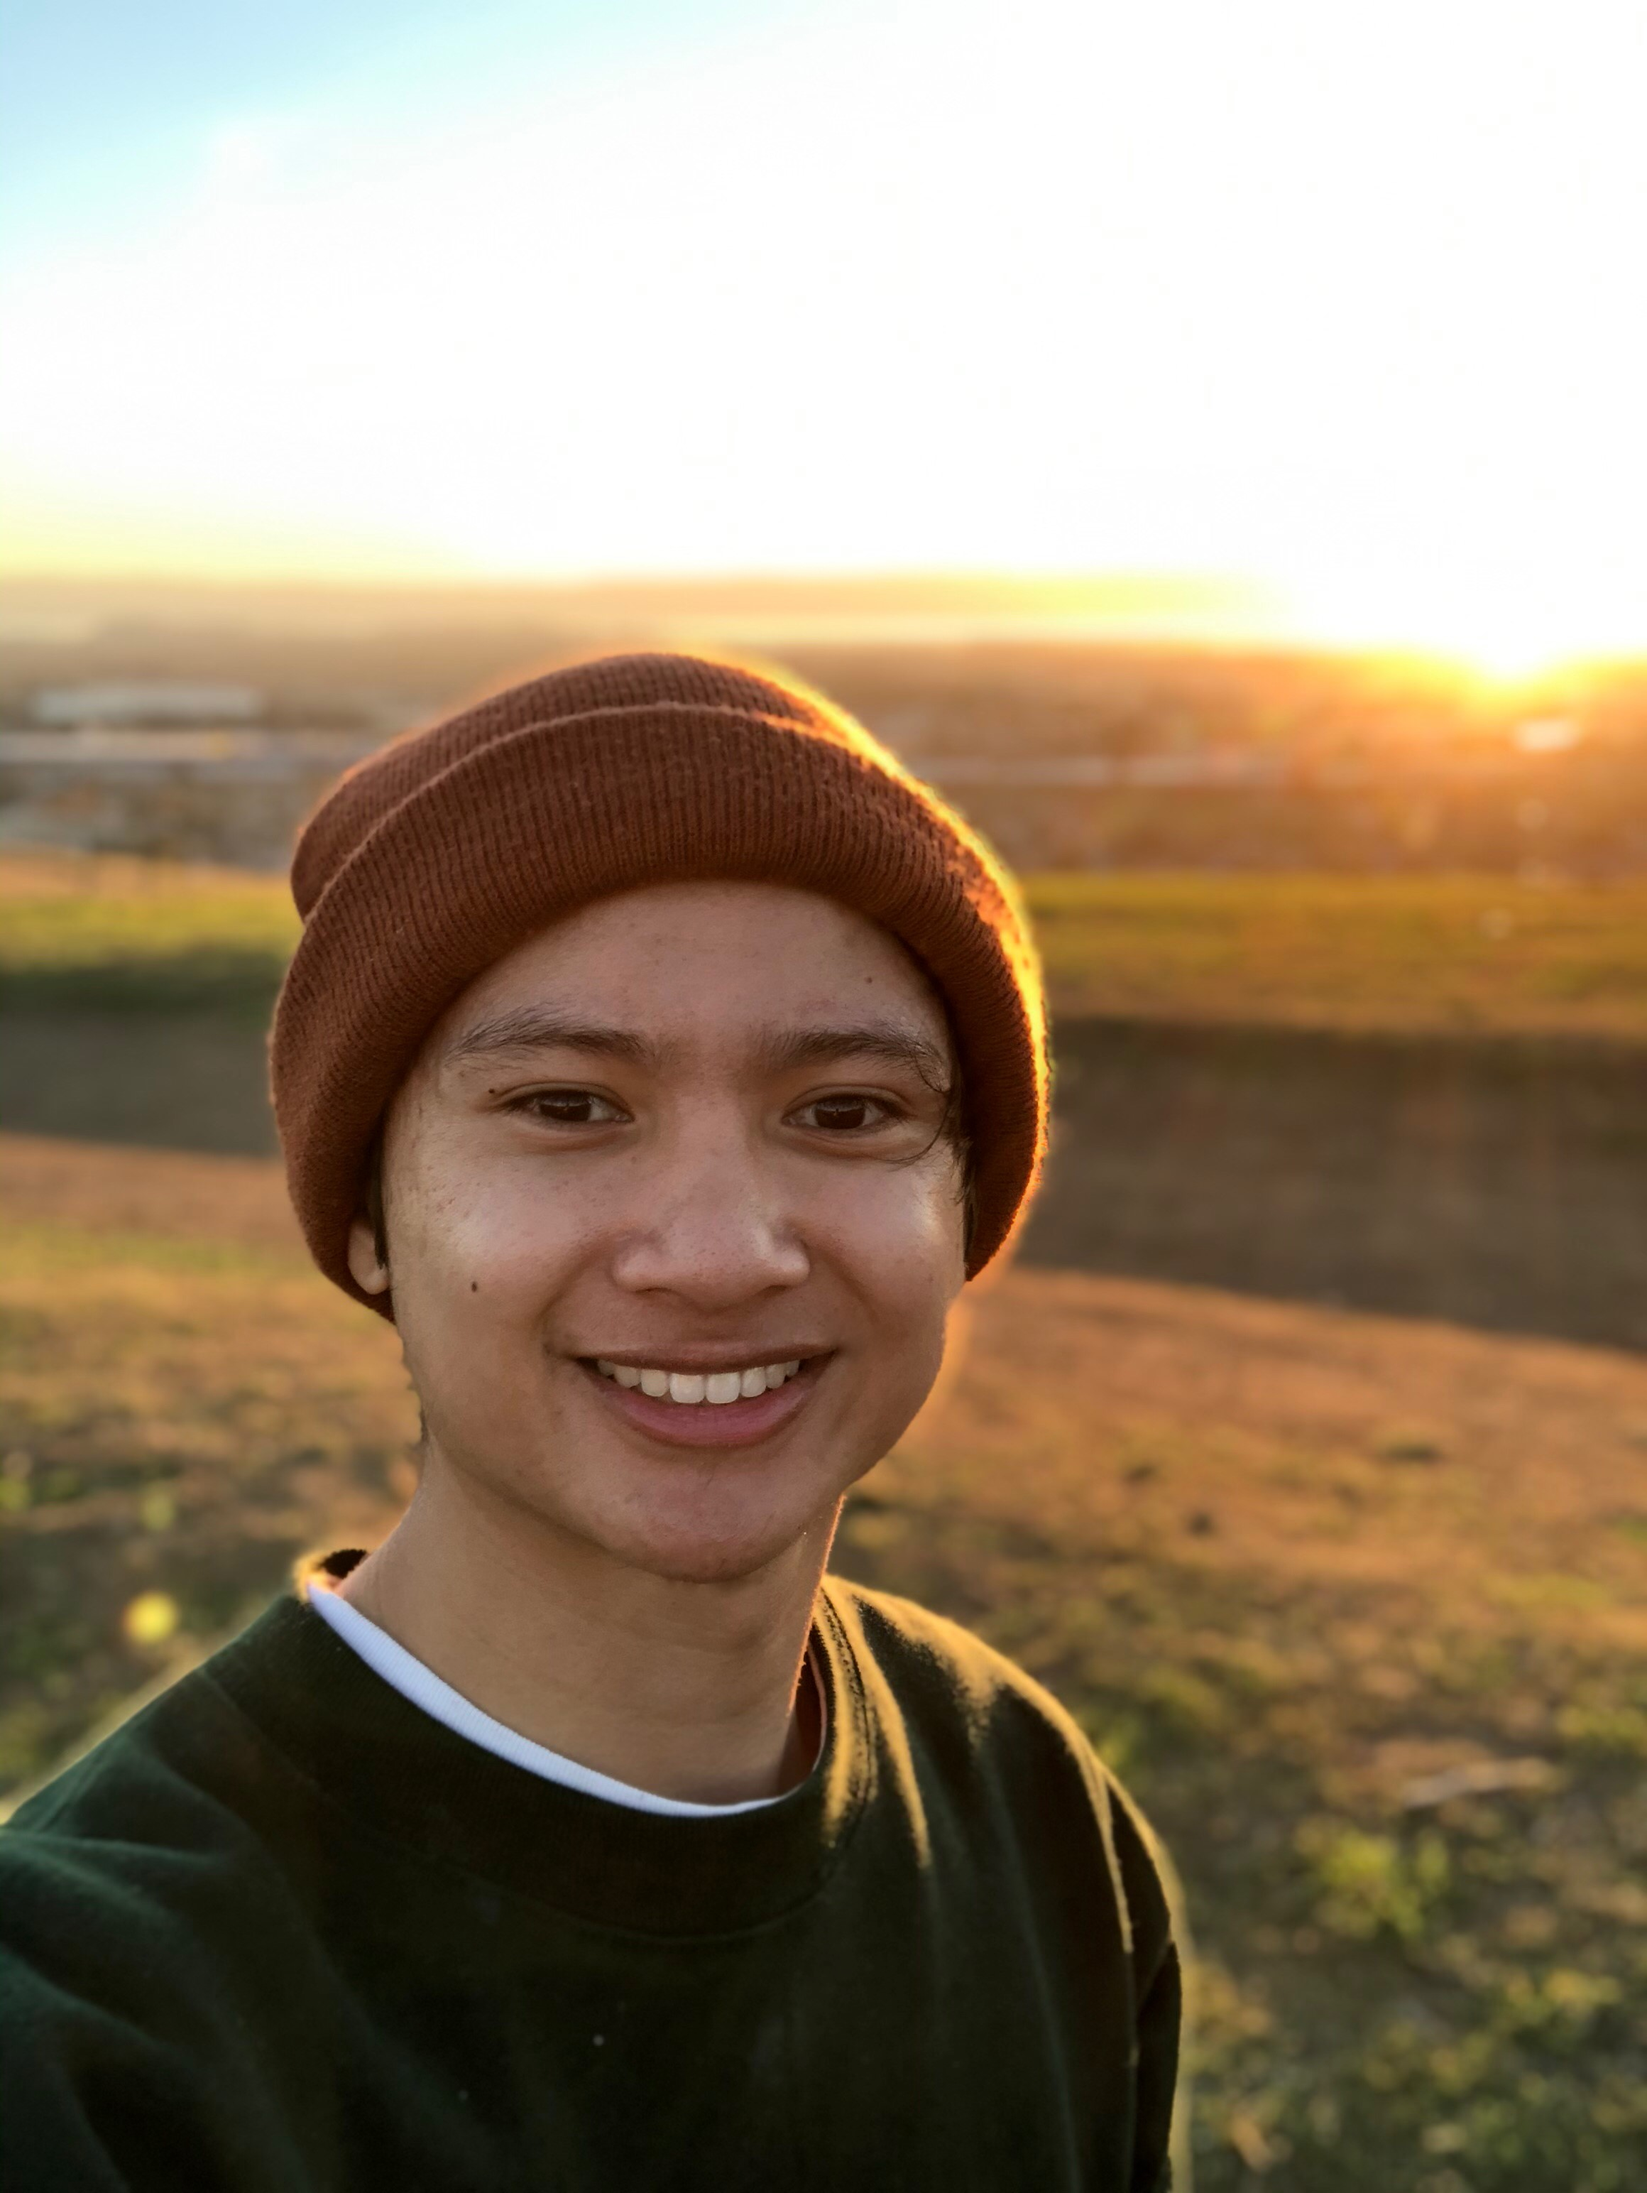
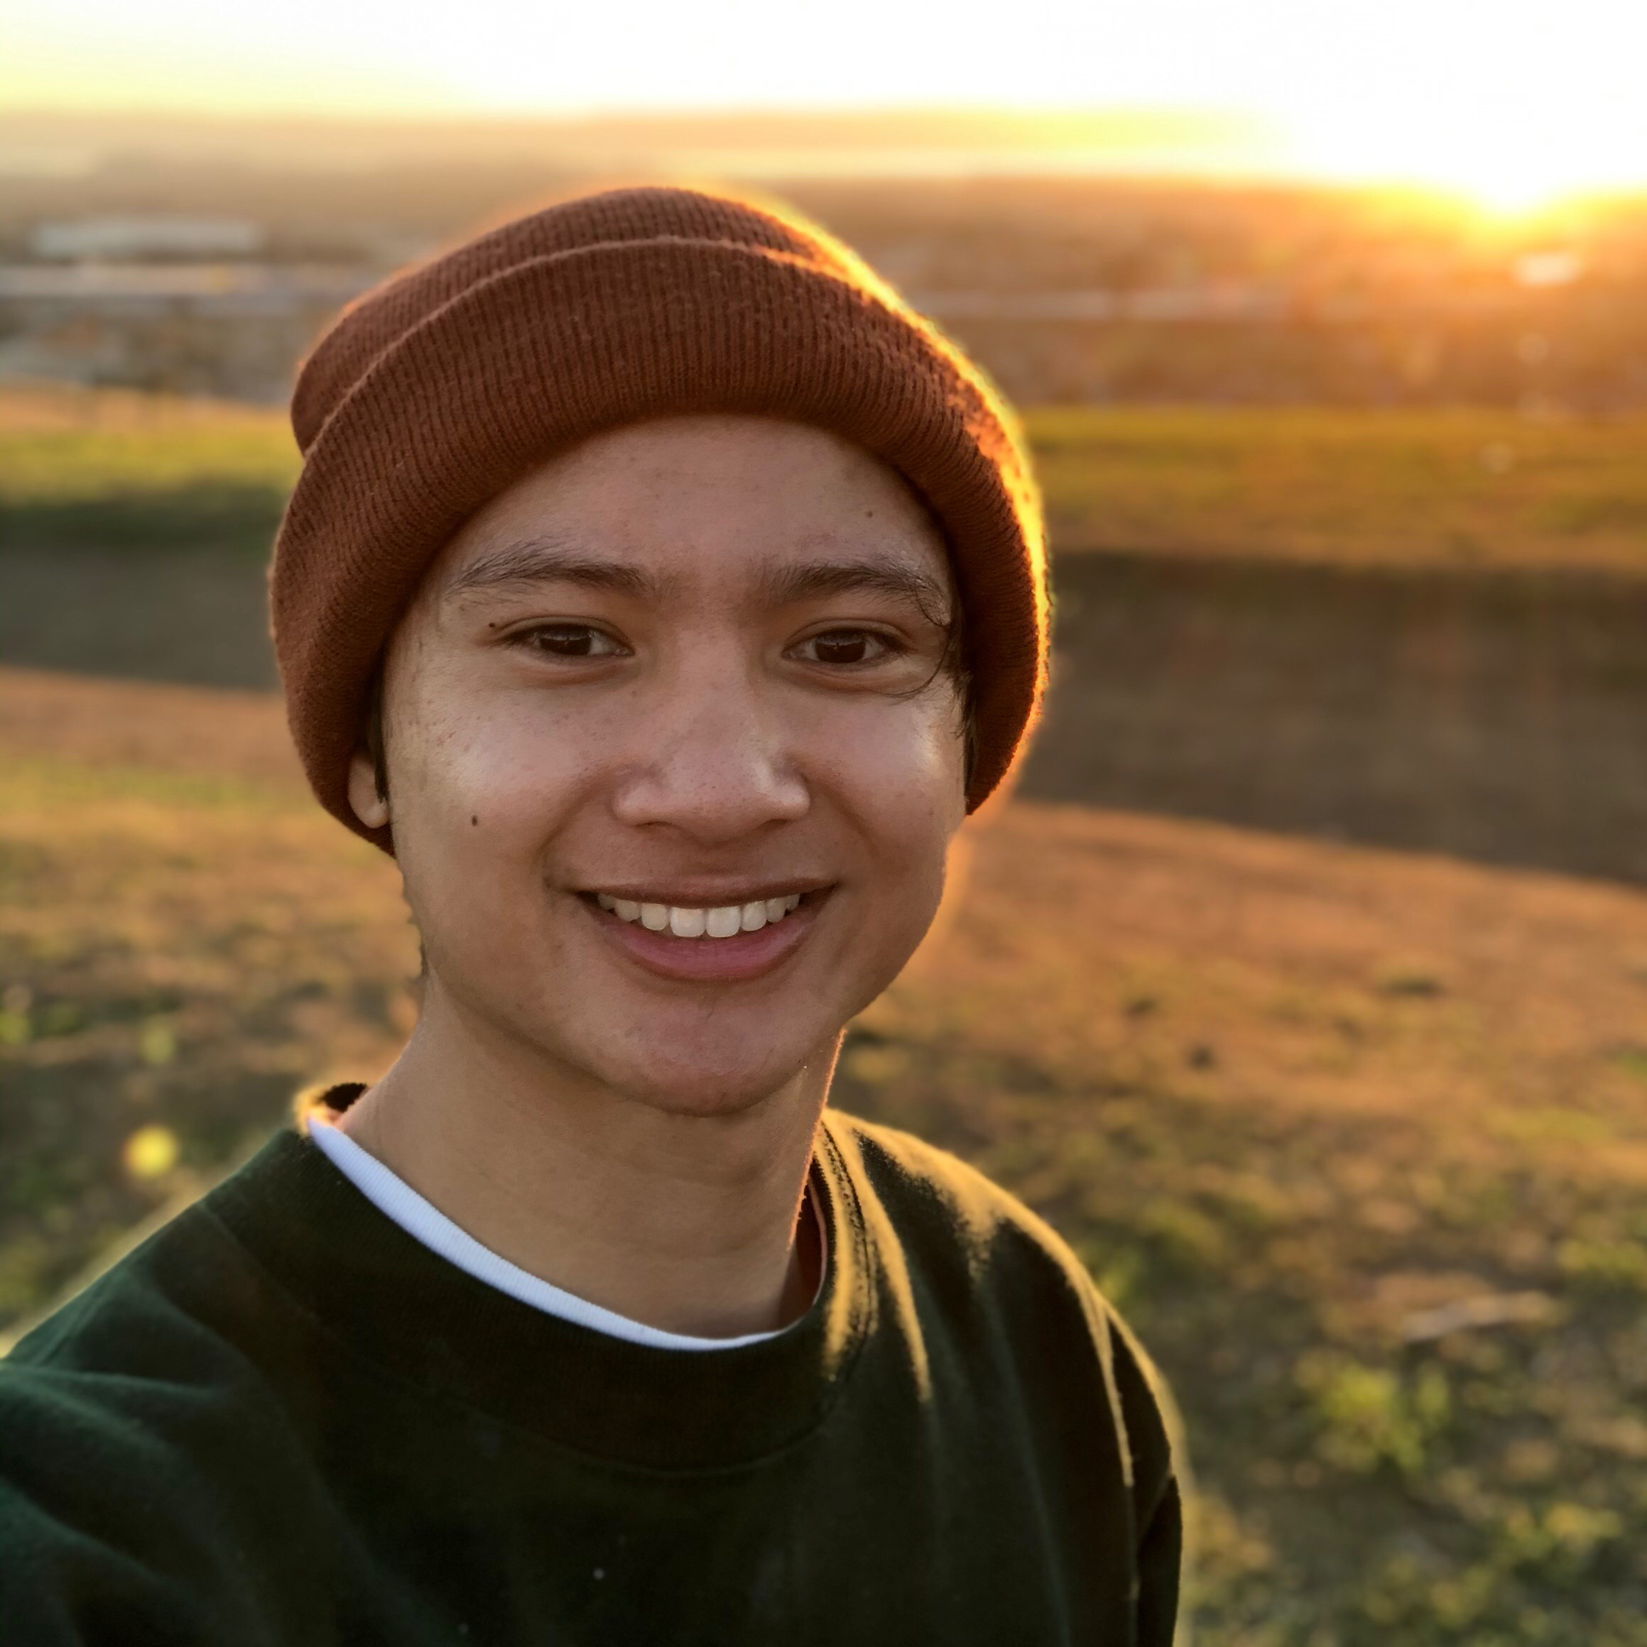
Fixed the image sizing for the background selfie in the About Me section. Still working on this seciton.

diff --git a/src/AboutMe.js b/src/AboutMe.js
@@ -16,11 +16,13 @@ function AboutMeBackgroundObjective() {
     return (
         <div>
             <h3 id='background-objective-title'>Background & Objective</h3>
-            <img src={mySelfie} alt="selfie" width="300px" id='about-me-selfie'/>
-            <p className="about-me-text">My name is Paolo Pedrigal (he/him) and I am current undergraduate student at University of California, Irvine, majoring in Computer Science. 
-            I am motivated to use my knowledge from my experiences and projects
-            to become a software engineer in website development.</p>
-            <p className="about-me-text">Other interests I have are working out, playing basketball and volleyball, and watching movies and TV. </p>
+            <div className='background-content-container'>
+                <img src={mySelfie} alt="selfie" width="300px" id='background-selfie'/>
+                <p id="background-text">My name is Paolo Pedrigal (he/him) and I am current undergraduate student at University of California, Irvine, majoring in Computer Science. 
+                I am motivated to use my knowledge from my experiences and projects
+                to become a software engineer in website development.
+                Other interests I have are working out, playing basketball and volleyball, and watching movies and TV. </p>
+            </div>
         </div>
     )
 }

diff --git a/src/AboutMe.css b/src/AboutMe.css
@@ -3,7 +3,7 @@
 }
 
 #about-me-section-title {
-    font-size: 150px;
+    font-size: 125px;
     margin: 75px 100px 30px;
 }
 
@@ -13,6 +13,17 @@
     color: #DDF091;
 }
 
-#about-me-selfie {
-    border-radius: 90%;    
+.background-content-container {
+    display: flexbox;
+    flex-direction: row;
+}
+
+#background-selfie {
+    border-radius: 90%;
+    width: 500px;
+    margin: 80px 125px;    
+}
+
+#background-text {
+    font-size: 35px;
 }

diff --git a/src/Front Section/Front.css b/src/Front Section/Front.css
@@ -12,7 +12,7 @@
     position: absolute;
     background-color: transparent;
     top: 115px;
-    left: 175px;
-    font-size: 130px;
+    left: 145px;
+    font-size: 140px;
     padding: 0px;
 }
